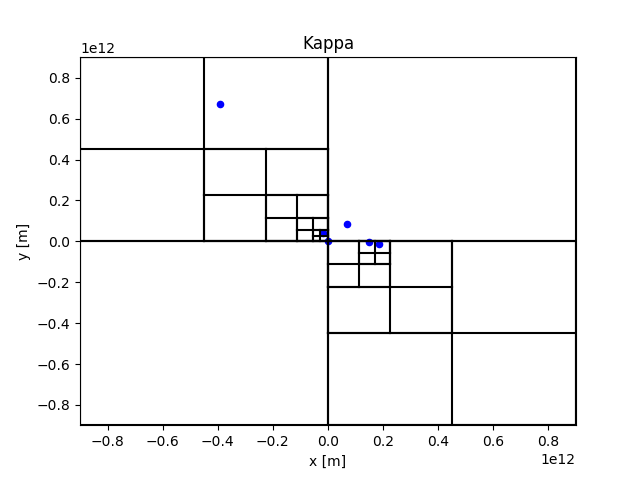
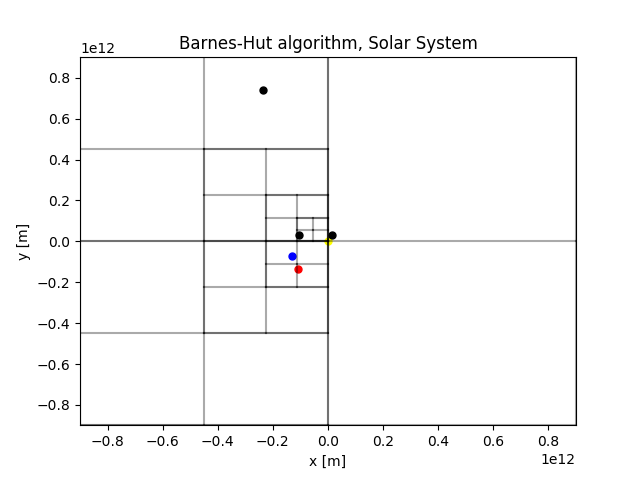
Better multipole

diff --git a/BarnesHut/QuadDict.py b/BarnesHut/QuadDict.py
@@ -33,7 +33,7 @@ def PlotDict(level,rectdict):
 				#to a list, if it isn't already in
 				if rectdict[area]["A"][i] not in ListPlot:
 					ListPlot.append(rectdict[area]["A"][i])
-					plt.plot(*rectdict[area]["A"][i], color = "black")
+					plt.plot(*rectdict[area]["A"][i], color = "black", alpha = 1.0/3)
 				#else:
 					#pass
 			
@@ -431,7 +431,7 @@ def CenterOfMass(rectdict):
 			rectdict["CM"] = [CMx,CMy, M]
 			#print(rectdict["CM"])
 
-			plt.scatter(CMx,CMy,c="red")
+			#plt.scatter(CMx,CMy,c="red")
 
 
 	for area in ["A1","A2","A3","A4"]:
@@ -698,7 +698,8 @@ points["P0"] = {"x": 0,
 					"xold":0,
 					"yold":0,
 					"xnew":0,
-					"ynew":0}
+					"ynew":0,
+					"C":"yellow"}
 #Mercury
 points["P1"] = {"x": 0, 
 					"y": -46001200*10**3, 
@@ -710,7 +711,8 @@ points["P1"] = {"x": 0,
 					"xold":0,
 					"yold":-46001200*10**3,
 					"xnew":0,
-					"ynew":0}
+					"ynew":0,
+					"C":"black"}
 
 #Venus
 points["P2"] = {"x": -108200000*10**3, 
@@ -723,7 +725,8 @@ points["P2"] = {"x": -108200000*10**3,
 					"xold":-108200000*10**3,
 					"yold":0,
 					"xnew":0,
-					"ynew":0}
+					"ynew":0,
+					"C":"black"}
 #earth
 points["P3"] = {"x": 1.5*10**11, 
 					"y": 0, 
@@ -735,7 +738,8 @@ points["P3"] = {"x": 1.5*10**11,
 					"xold":1.5*10**11,
 					"yold":0,
 					"xnew":0,
-					"ynew":0}
+					"ynew":0,
+					"C":"blue"}
 
 #Mars
 points["P4"] = {"x": 0, 
@@ -748,7 +752,8 @@ points["P4"] = {"x": 0,
 					"xold":0,
 					"yold":-46001200*10**3,
 					"xnew":0,
-					"ynew":0}				
+					"ynew":0,
+					"C":"red"}				
 #Jupiter
 points["P5"] = {"x": 0, 
 					"y": 778500000*10**3, 
@@ -760,7 +765,8 @@ points["P5"] = {"x": 0,
 					"xold":0,
 					"yold":778500000*10**3,
 					"xnew":0,
-					"ynew":0}
+					"ynew":0,
+					"C":"black"}
 
 
 
@@ -860,7 +866,7 @@ fig = plt.figure(2)
 ax = fig.gca()
 ax.set_xlim(-6*AU,6*AU)
 ax.set_ylim(-6*AU,6*AU)
-ax.set_title('Kappa')
+ax.set_title('Barnes-Hut algorithm, Solar System')
 ax.set_ylabel('y [m]')
 ax.set_xlabel('x [m]')
 
@@ -871,7 +877,7 @@ def animate(i): #i increment with 1 each step
 	ax.clear()
 	ax.set_xlim(-6*AU,6*AU)
 	ax.set_ylim(-6*AU,6*AU)
-	ax.set_title('Kappa')
+	ax.set_title('Barnes-Hut algorithm, Solar System')
 	ax.set_ylabel('y [m]')
 	ax.set_xlabel('x [m]')
 	
@@ -901,7 +907,8 @@ def animate(i): #i increment with 1 each step
 	PlotDict(level, Dict)
 	
 	for pointkey in points:
-		plt.scatter(points[pointkey]["x"],points[pointkey]["y"], color = "blue",s=20)
+		plt.scatter(points[pointkey]["x"],points[pointkey]["y"], 
+			color = points[pointkey]["C"],s=25)
 
 
 
